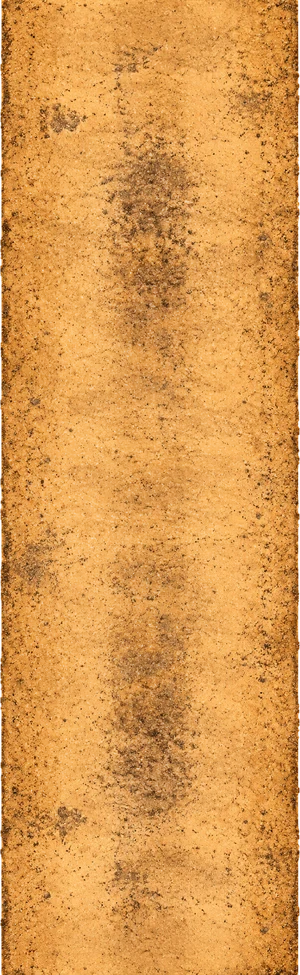
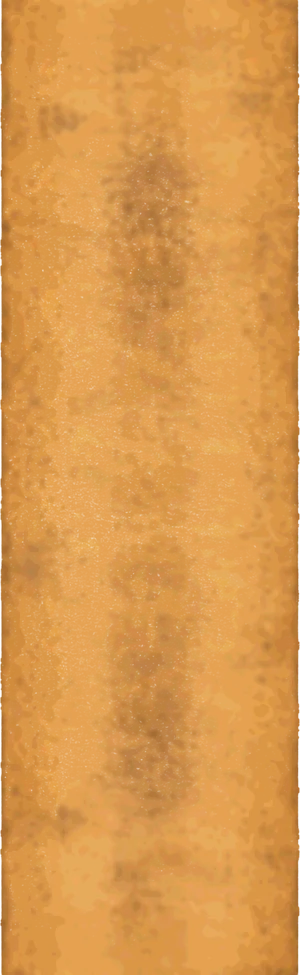
Thunderdome: flatter comic pitch, thinner outline, inked creases on the pitch, soft white rope, slower LED board
Claude-Session: https://claude.ai/code/session_01NK7tbrKg5PdA6fuyEUPXLd

diff --git a/js/scene.js b/js/scene.js
@@ -197,7 +197,7 @@ function renderPainted(cam, art) {
   const ends = [[-PX, PZ0], [PX, PZ0], [PX, PZ1], [-PX, PZ1]].map(([x, z]) => cam.project(x, 0, Math.max(z, cam.dir > 0 ? cam.cz + 1 : z)));
   if (ends.every(Boolean)) {
     g.save();
-    g.strokeStyle = INK; g.lineJoin = 'round'; g.lineWidth = 2.5;
+    g.strokeStyle = INK; g.lineJoin = 'round'; g.lineWidth = 1.4;
     g.beginPath(); ends.forEach((p, i) => (i ? g.lineTo(p.x, p.y) : g.moveTo(p.x, p.y))); g.closePath(); g.stroke();
     g.restore();
   }
@@ -210,14 +210,20 @@ function renderPainted(cam, art) {
     g.fillStyle = gr; g.fillRect(0, hy, W, H - hy); g.restore();
   }
   // rope, 30-yard circle and creases (crease lines are 5 cm wide)
-  ring(g, cam, R, T.trim === '#1c1c1c' || T.trim === '#1a1a1a' ? T.suit : T.trim, 3, []);
-  ring(g, cam, 27, 'rgba(255,255,255,0.5)', 1.5, [6, 6]);
+  ring(g, cam, R, 'rgba(255,255,255,0.34)', 2, [16, 12]); // the rope: a soft white dashed line
+  ring(g, cam, 27, 'rgba(255,255,255,0.4)', 1.5, [6, 6]);
+  // creases: white with a fine ink edge, kept on the pitch
   const crease = (x0, z0, x1, z1) => {
     const p = cam.project(0, 0, (z0 + z1) / 2);
-    if (p) line(g, cam, x0, z0, x1, z1, 'rgba(255,253,240,0.95)', Math.max(1.2, 0.05 * p.k));
+    if (!p) return;
+    const w = Math.max(1.2, 0.05 * p.k);
+    g.lineCap = 'butt';
+    line(g, cam, x0, z0, x1, z1, INK, w + 1.6);
+    line(g, cam, x0, z0, x1, z1, '#fffdf0', w);
   };
+  const PE = PX - 0.06;
   for (const [z, d] of [[0, 1], [20, -1]]) {
-    crease(-1.83, z + 1.22 * d, 1.83, z + 1.22 * d); // popping crease
+    crease(-PE, z + 1.22 * d, PE, z + 1.22 * d); // popping crease
     crease(-1.32, z, 1.32, z); // bowling crease, through the stumps
     for (const x of [-1.32, 1.32]) crease(x, z + 1.22 * d, x, z - 1.22 * d); // return creases
   }
@@ -668,7 +674,7 @@ export function drawBoard(ctx, cam, t, message) {
   const G = groundOf(HOME), T = teamById(HOME);
   const text = message ? `★ ${message} ★   `.repeat(6) : `★ WELCOME TO ${G.name.toUpperCase()} ★   HOME OF THE ${T.name.toUpperCase()}   ${BOARD_TEXT}`;
   const tw = ctx.measureText(text).width;
-  const off = -((t * 0.05) % tw);
+  const off = -((t * 0.025) % tw);
   for (let x = off; x < W; x += tw) ctx.fillText(text, x, b.y + b.h / 2 + 1);
   ctx.restore();
   ctx.strokeStyle = INK; ctx.lineWidth = 2.5; ctx.strokeRect(-2, b.y, W + 4, b.h);
@@ -685,12 +691,18 @@ function drawPaintedBoard(ctx, cam, t, message) {
   if (quality.high) { ctx.shadowColor = message ? '#fff' : '#ffb000'; ctx.shadowBlur = 8; }
   const text = message ? `★ ${message} ★   `.repeat(6) : `★ WELCOME TO ${G.name.toUpperCase()} ★   HOME OF THE ${T.name.toUpperCase()}   ${BOARD_TEXT}`;
   const tw = ctx.measureText(text).width;
-  const off = -((t * 0.05) % tw);
+  const off = -((t * 0.025) % tw);
   for (let x = off; x < W; x += tw) ctx.fillText(text, x, b.y + b.h / 2 + 1);
   ctx.shadowBlur = 0;
   ctx.fillStyle = 'rgba(0,10,40,0.28)';
   for (let x = 0; x < W; x += 3) ctx.fillRect(x, b.y, 1, b.h);
   ctx.restore();
+}
+
+// the painted grounds' rope in the top-down view: soft white dashes
+function ropeSoft(ctx, path) {
+  ctx.save(); ctx.setLineDash([16, 12]); ctx.strokeStyle = 'rgba(255,255,255,0.34)'; ctx.lineWidth = 2;
+  path(); ctx.stroke(); ctx.restore();
 }
 
 function ring(g, cam, r, color, w, dash) {
@@ -839,33 +851,35 @@ export class OutfieldView {
     ctx.beginPath(); ctx.ellipse(c.x, c.y, (R + 26) * k, (R + 26) * k * 0.78, 0, 0, Math.PI * 2); ctx.fill();
     ctx.strokeStyle = '#0d0a24'; ctx.lineWidth = 4; ctx.stroke();
     ctx.restore();
+    const art = artFor();
     ctx.save();
     ctx.beginPath(); ctx.ellipse(c.x, c.y, (R + 4) * k, (R + 4) * k * 0.78, 0, 0, Math.PI * 2);
-    ctx.fillStyle = '#ffd23f'; ctx.fill();
-    ctx.beginPath(); ctx.ellipse(c.x, c.y, R * k + 2, R * k * 0.78 + 2, 0, 0, Math.PI * 2);
-    const art = artFor();
     if (art) {
-      // the painted grass, its stripes along the pitch as in the match views
-      const tex = mipFor(grassMips(art), k), TS = tex.width;
-      const pat = ctx.createPattern(tex, 'repeat');
+      // the painted grass right up to the stands, its stripes along the pitch as in the match
+      // views: whole tiles with drawImage (pattern transforms are unreliable on iPhone Safari)
+      ctx.clip();
+      const tex = mipFor(grassMips(art), k), tw = TILE_M * k, th = TILE_M * k * 0.78;
       const o = this.to(-2.5, 0);
-      pat.setTransform(new DOMMatrix([k * TILE_M / TS, 0, 0, k * 0.78 * TILE_M / TS, o.x, o.y]));
-      ctx.fillStyle = pat; ctx.fill();
+      for (let x = o.x - Math.ceil(o.x / tw) * tw; x < W; x += tw) for (let y = o.y - Math.ceil(o.y / th) * th; y < H; y += th) ctx.drawImage(tex, x, y, tw + 0.5, th + 0.5);
       ctx.restore();
+      ropeSoft(ctx, () => { ctx.beginPath(); ctx.ellipse(c.x, c.y, R * k, R * k * 0.78, 0, 0, Math.PI * 2); });
     } else {
+      ctx.fillStyle = '#ffd23f'; ctx.fill();
+      ctx.beginPath(); ctx.ellipse(c.x, c.y, R * k + 2, R * k * 0.78 + 2, 0, 0, Math.PI * 2);
       ctx.fillStyle = groundOf(HOME).grass[1]; ctx.fill();
       ctx.clip();
       ctx.fillStyle = 'rgba(255,255,255,0.05)';
       for (let x = -R; x < R; x += 10) { const a = this.to(x, 0); ctx.fillRect(a.x, 0, 5 * k, H); }
       ctx.restore();
+      ctx.strokeStyle = '#fff4da'; ctx.lineWidth = 3;
+      ctx.beginPath(); ctx.ellipse(c.x, c.y, R * k, R * k * 0.78, 0, 0, Math.PI * 2); ctx.stroke();
     }
-    ctx.strokeStyle = '#fff4da'; ctx.lineWidth = 3;
-    ctx.beginPath(); ctx.ellipse(c.x, c.y, R * k, R * k * 0.78, 0, 0, Math.PI * 2); ctx.stroke();
     ctx.setLineDash([6, 6]); ctx.strokeStyle = 'rgba(255,255,255,0.4)'; ctx.lineWidth = 1.5;
     ctx.beginPath(); ctx.ellipse(c.x, c.y, 27 * k, 27 * k * 0.78, 0, 0, Math.PI * 2); ctx.stroke(); ctx.setLineDash([]);
     if (art) {
-      const a = this.to(-1.55, 22), b = this.to(1.55, -2);
-      ctx.drawImage(art.pitch, a.x, a.y, b.x - a.x, b.y - a.y);
+      const a = this.to(-1.52, 22), b = this.to(1.52, -2), pt = art.pitch;
+      ctx.drawImage(pt, pt.naturalWidth * 0.04, 0, pt.naturalWidth * 0.92, pt.naturalHeight, a.x, a.y, b.x - a.x, b.y - a.y);
+      ctx.strokeStyle = INK; ctx.lineWidth = 1.2; ctx.strokeRect(a.x, a.y, b.x - a.x, b.y - a.y);
     } else {
       const a = this.to(-1.5, 21.4), b = this.to(1.5, -1.4);
       ctx.fillStyle = groundOf(HOME).pitchCol; ctx.strokeStyle = 'rgba(20,16,24,0.5)'; ctx.lineWidth = 1.5;

diff --git a/tools/build_ground_art.py b/tools/build_ground_art.py
@@ -98,7 +98,14 @@ def main():
     if (p[..., 3] > 250).all():
         p = keyed(pitch)
     p, _, _ = crop(p)
-    p = np.array(Image.fromarray(p).resize((300, round(p.shape[0] * 300 / p.shape[1])), Image.LANCZOS))
+    p = np.array(Image.fromarray(p).resize((300, round(p.shape[0] * 300 / p.shape[1])), Image.LANCZOS)).astype(np.float32)
+    # painted, not photographed: blur away the grit, halve the contrast, and flatten the colour
+    # into a few bands like the rest of the game's comic art
+    rgb = ndi.gaussian_filter(p[..., :3], (2.4, 2.4, 0))
+    mean = rgb[p[..., 3] > 128].mean(0)
+    rgb = mean + (rgb - mean) * 0.55
+    rgb = np.round(rgb / 10) * 10
+    p = np.dstack([np.clip(rgb, 0, 255), p[..., 3]]).astype(np.uint8)
     save(p, d + 'pitch.webp')
 
     # grass: blend the tile with itself shifted half a width, more towards the sides, so its
